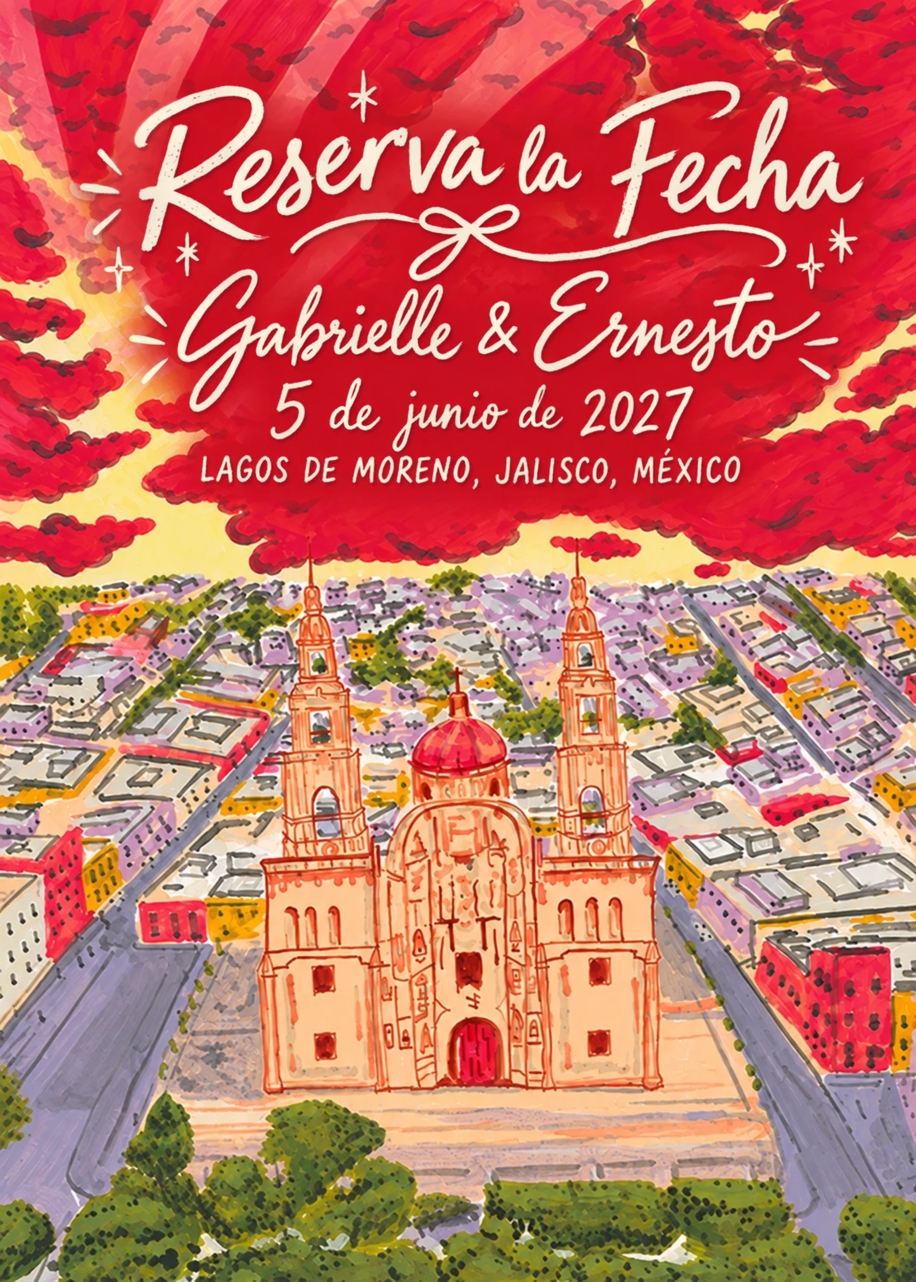
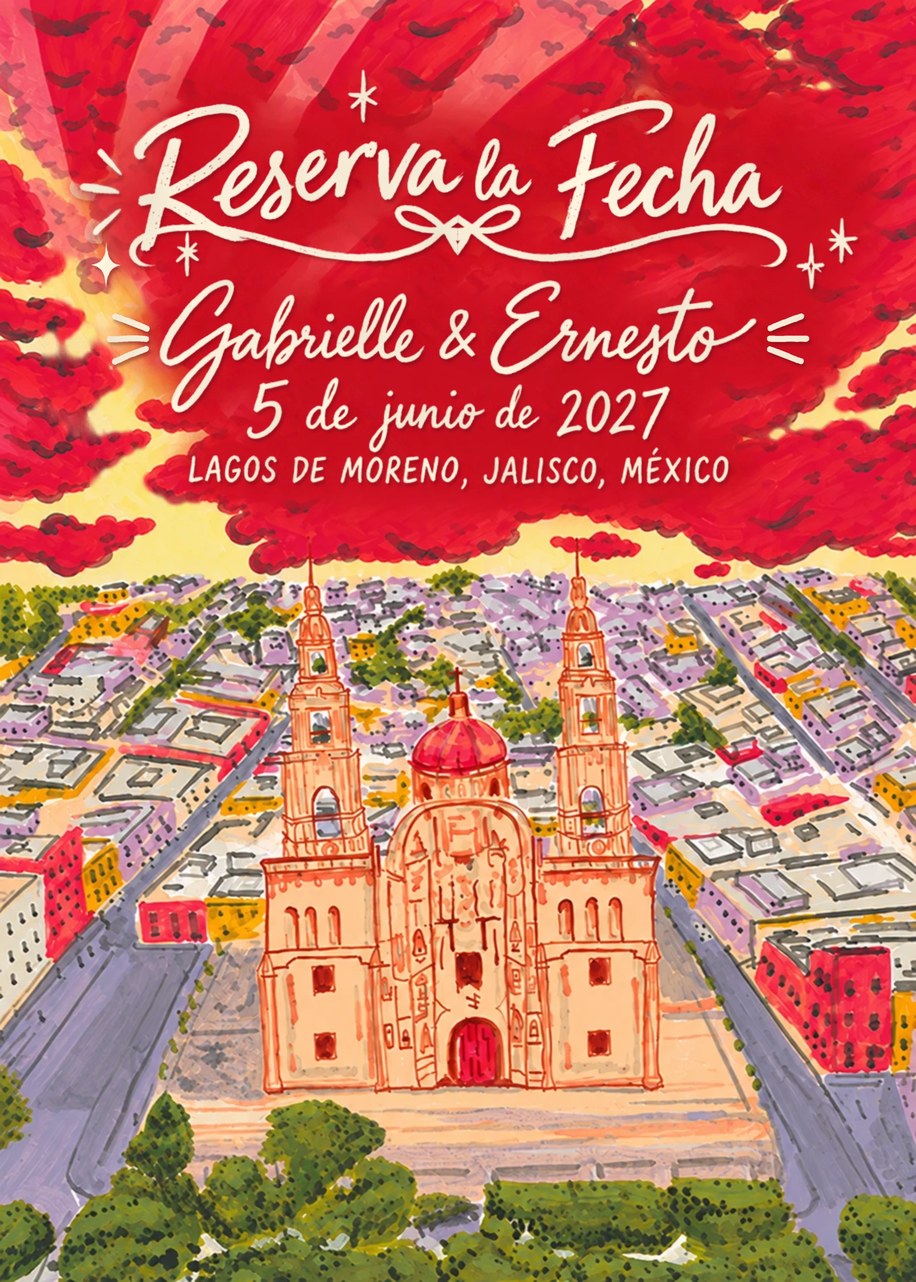
Save the Date: center the Pintado lettering on the card
The lettering (inherited from the original card) sat right of centre:
headline and names centred at x=577, date 557, place 544, on a 1060px card
whose cathedral and sparkles are centred at 530. Now:
- every line's ink box is centred on 530 (headline 750px wide so it
  clears the rays left of the R; names 675-730px)
- the bow is symmetric: its right half mirrored about the knot
- the rays beside the names are redrawn symmetrically (two of the
  original left rays were fused with bits of sky and couldn't be moved)
- fonts are loaded before fitting, so line widths are exact
Images cache-busted with ?v=2.

diff --git a/save-the-date/pintado/index.html b/save-the-date/pintado/index.html
@@ -36,31 +36,31 @@
 
   <div class="grid">
     <figure>
-      <a class="img" href="../../images/save-card-p1.webp"><img src="../../images/save-card-p1.webp" alt="Pintado A" loading="lazy"></a>
+      <a class="img" href="../../images/save-card-p1.webp?v=2"><img src="../../images/save-card-p1.webp?v=2" alt="Pintado A" loading="lazy"></a>
       <figcaption><span class="num">Pintado A</span><h2>Original letters <span>· cleaned up</span></h2>
         <p class="d">The Pintado you liked, same letters, now solid and crisp with the soft painted shadow.</p>
         <a class="go" href="../preview/?card=p1">See it in the envelope →</a></figcaption>
     </figure>
     <figure>
-      <a class="img" href="../../images/save-card-p2.webp"><img src="../../images/save-card-p2.webp" alt="Pintado B" loading="lazy"></a>
+      <a class="img" href="../../images/save-card-p2.webp?v=2"><img src="../../images/save-card-p2.webp?v=2" alt="Pintado B" loading="lazy"></a>
       <figcaption><span class="num">Pintado B</span><h2>Satisfy <span>· flowing brush</span></h2>
         <p class="d">A flowing brush script close to the original's feel, a little lighter and more elegant.</p>
         <a class="go" href="../preview/?card=p2">See it in the envelope →</a></figcaption>
     </figure>
     <figure>
-      <a class="img" href="../../images/save-card-p3.webp"><img src="../../images/save-card-p3.webp" alt="Pintado C" loading="lazy"></a>
+      <a class="img" href="../../images/save-card-p3.webp?v=2"><img src="../../images/save-card-p3.webp?v=2" alt="Pintado C" loading="lazy"></a>
       <figcaption><span class="num">Pintado C</span><h2>Kaushan <span>· bold brush</span></h2>
         <p class="d">A bolder, more energetic brush script, reads well even small.</p>
         <a class="go" href="../preview/?card=p3">See it in the envelope →</a></figcaption>
     </figure>
     <figure>
-      <a class="img" href="../../images/save-card-p4.webp"><img src="../../images/save-card-p4.webp" alt="Pintado D" loading="lazy"></a>
+      <a class="img" href="../../images/save-card-p4.webp?v=2"><img src="../../images/save-card-p4.webp?v=2" alt="Pintado D" loading="lazy"></a>
       <figcaption><span class="num">Pintado D</span><h2>Water Brush <span>· wet brush</span></h2>
         <p class="d">The most hand-painted of the five, as if written with a wet brush.</p>
         <a class="go" href="../preview/?card=p4">See it in the envelope →</a></figcaption>
     </figure>
     <figure>
-      <a class="img" href="../../images/save-card-p5.webp"><img src="../../images/save-card-p5.webp" alt="Pintado E" loading="lazy"></a>
+      <a class="img" href="../../images/save-card-p5.webp?v=2"><img src="../../images/save-card-p5.webp?v=2" alt="Pintado E" loading="lazy"></a>
       <figcaption><span class="num">Pintado E</span><h2>Norican <span>· classic script</span></h2>
         <p class="d">A classic, elegant script with a formal wedding feel; the easiest to read.</p>
         <a class="go" href="../preview/?card=p5">See it in the envelope →</a></figcaption>

diff --git a/save-the-date/preview/index.html b/save-the-date/preview/index.html
@@ -85,7 +85,7 @@
     var s=document.getElementById('stage');
     // ?card=1..5 / p1..p5 swaps in a lettering option from ../options/ or ../pintado/
     var v=/[?&]card=(p?)([1-5])(&|$)/.exec(location.search);
-    if(v){ s.querySelector('.card').src='../../images/save-card-'+(v[1]||'v')+v[2]+'.webp';
+    if(v){ s.querySelector('.card').src='../../images/save-card-'+(v[1]||'v')+v[2]+'.webp'+(v[1]?'?v=2':'');
       document.querySelector('.draft').textContent+=v[1]?' · Pintado '+'ABCDE'[v[2]-1]:' · lettering option '+v[2]; }
     function go(){
       s.classList.add('open');
